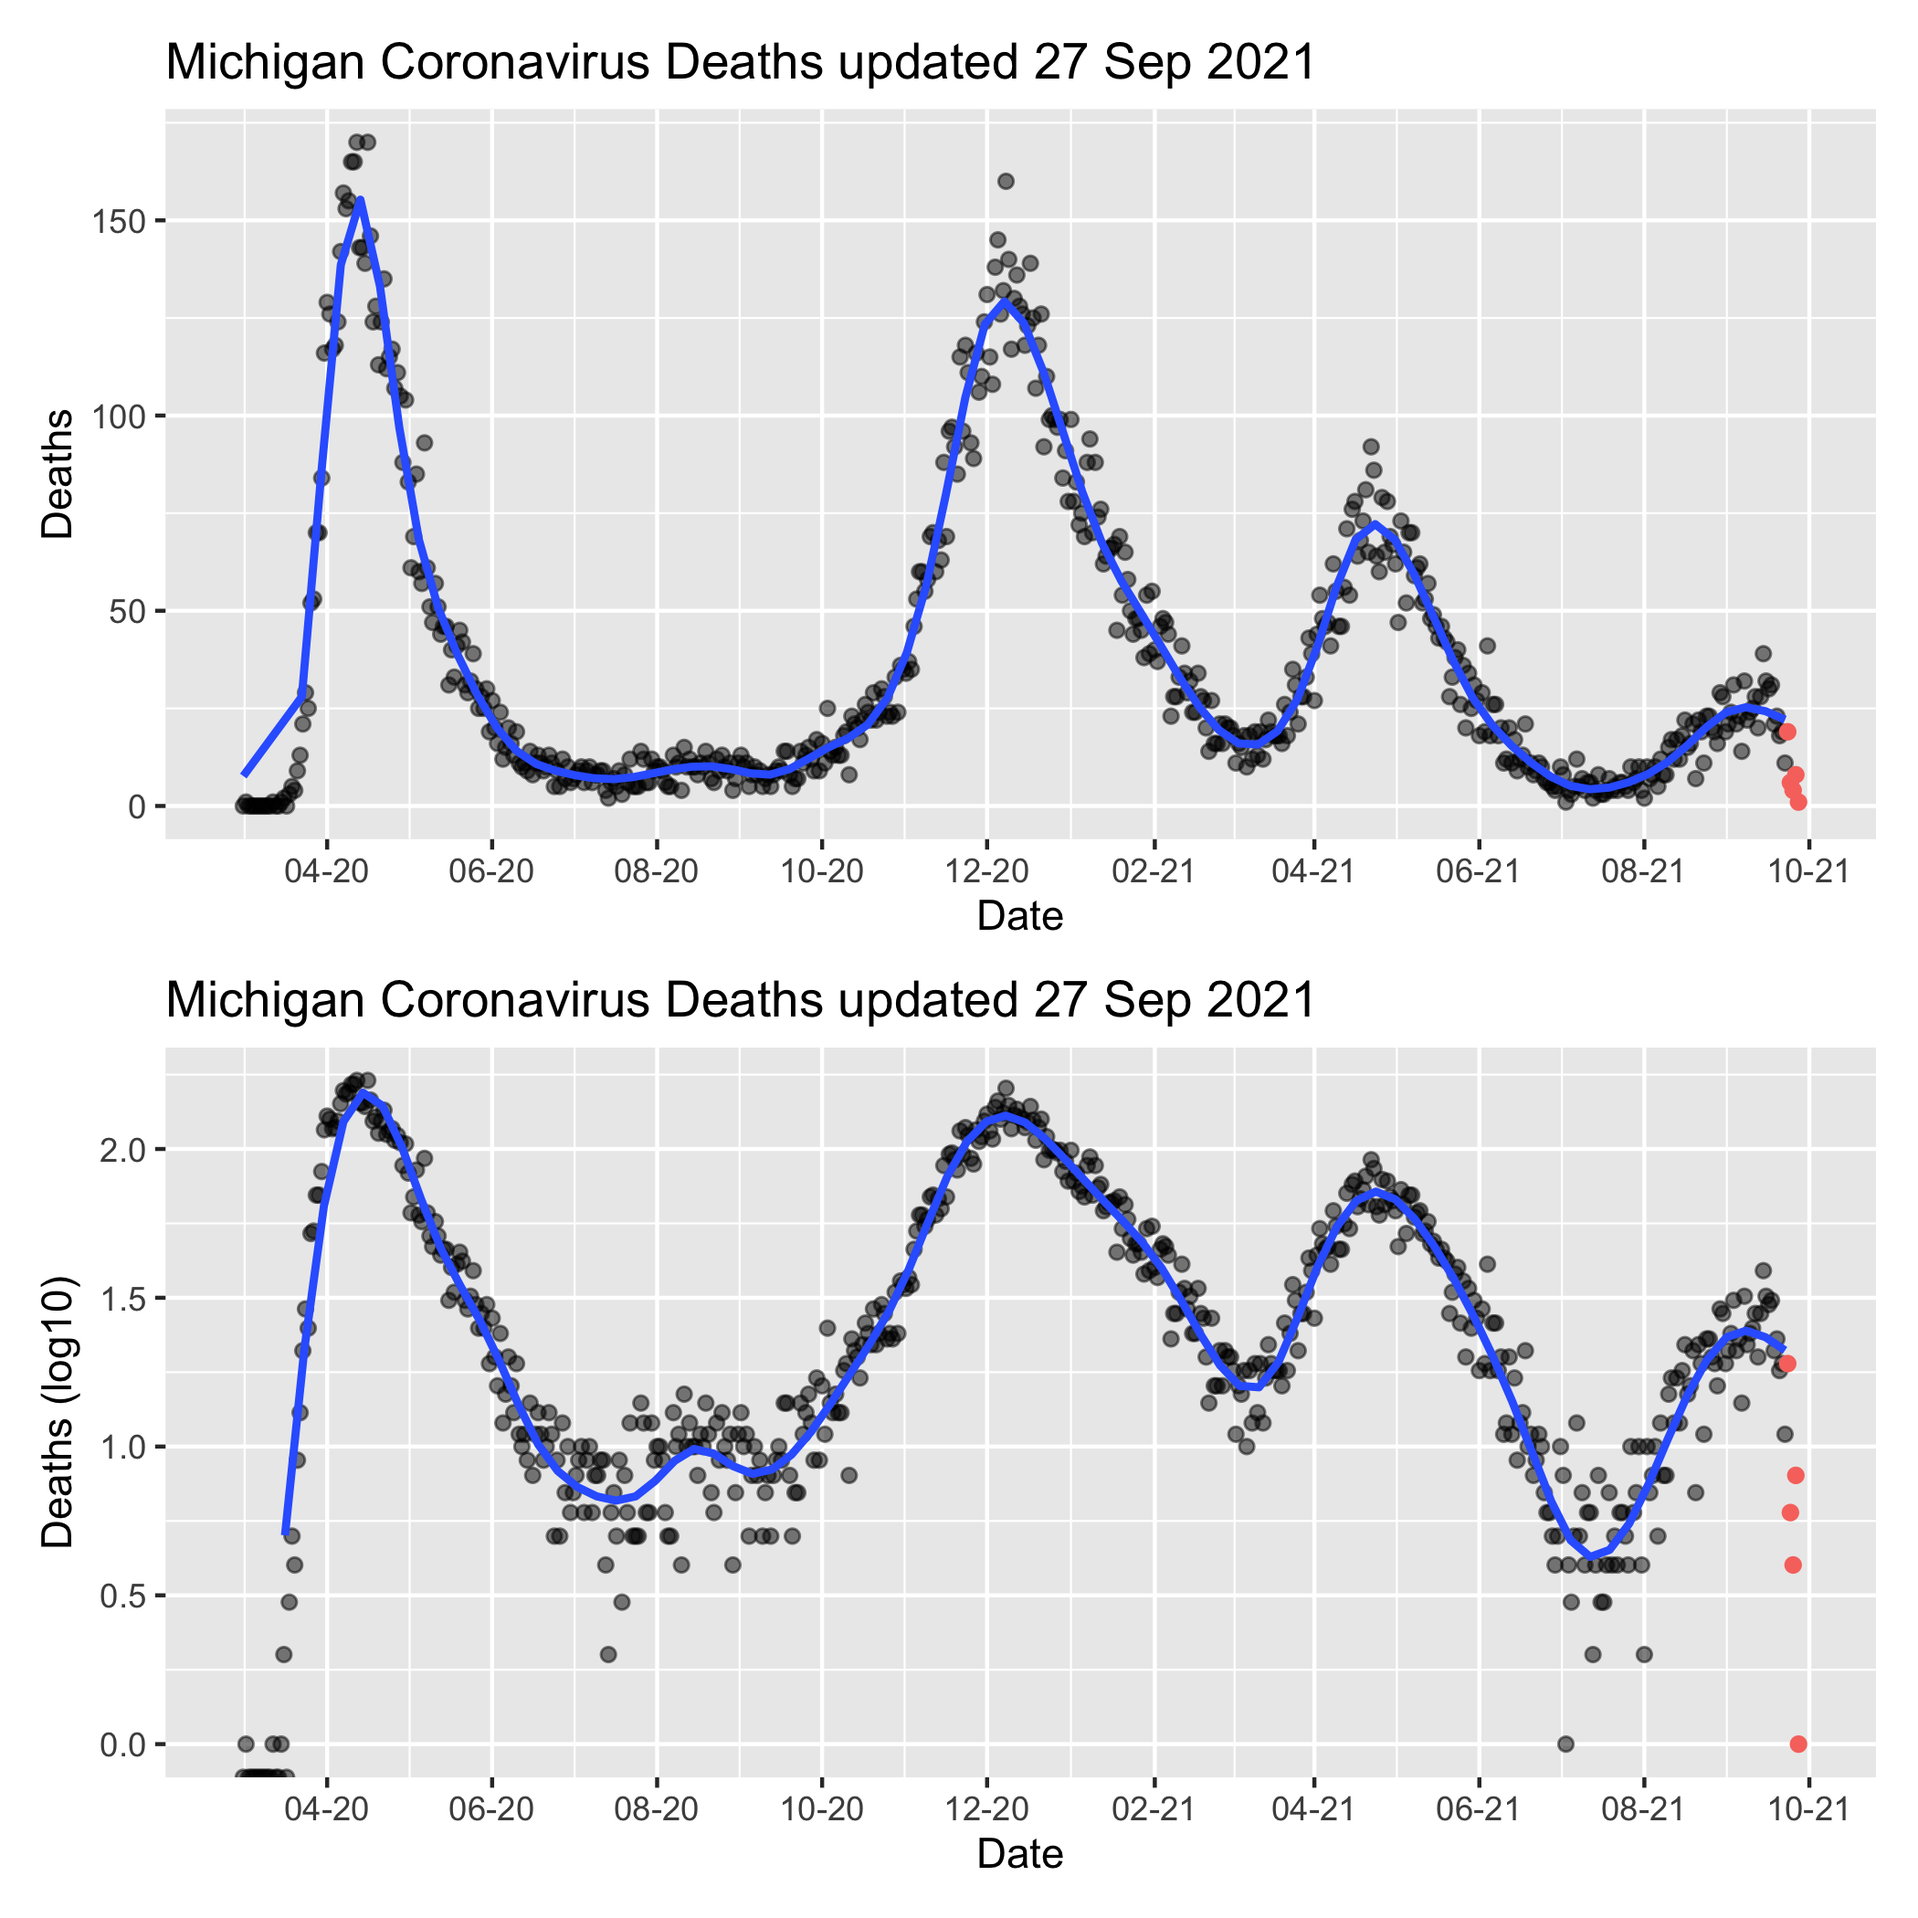
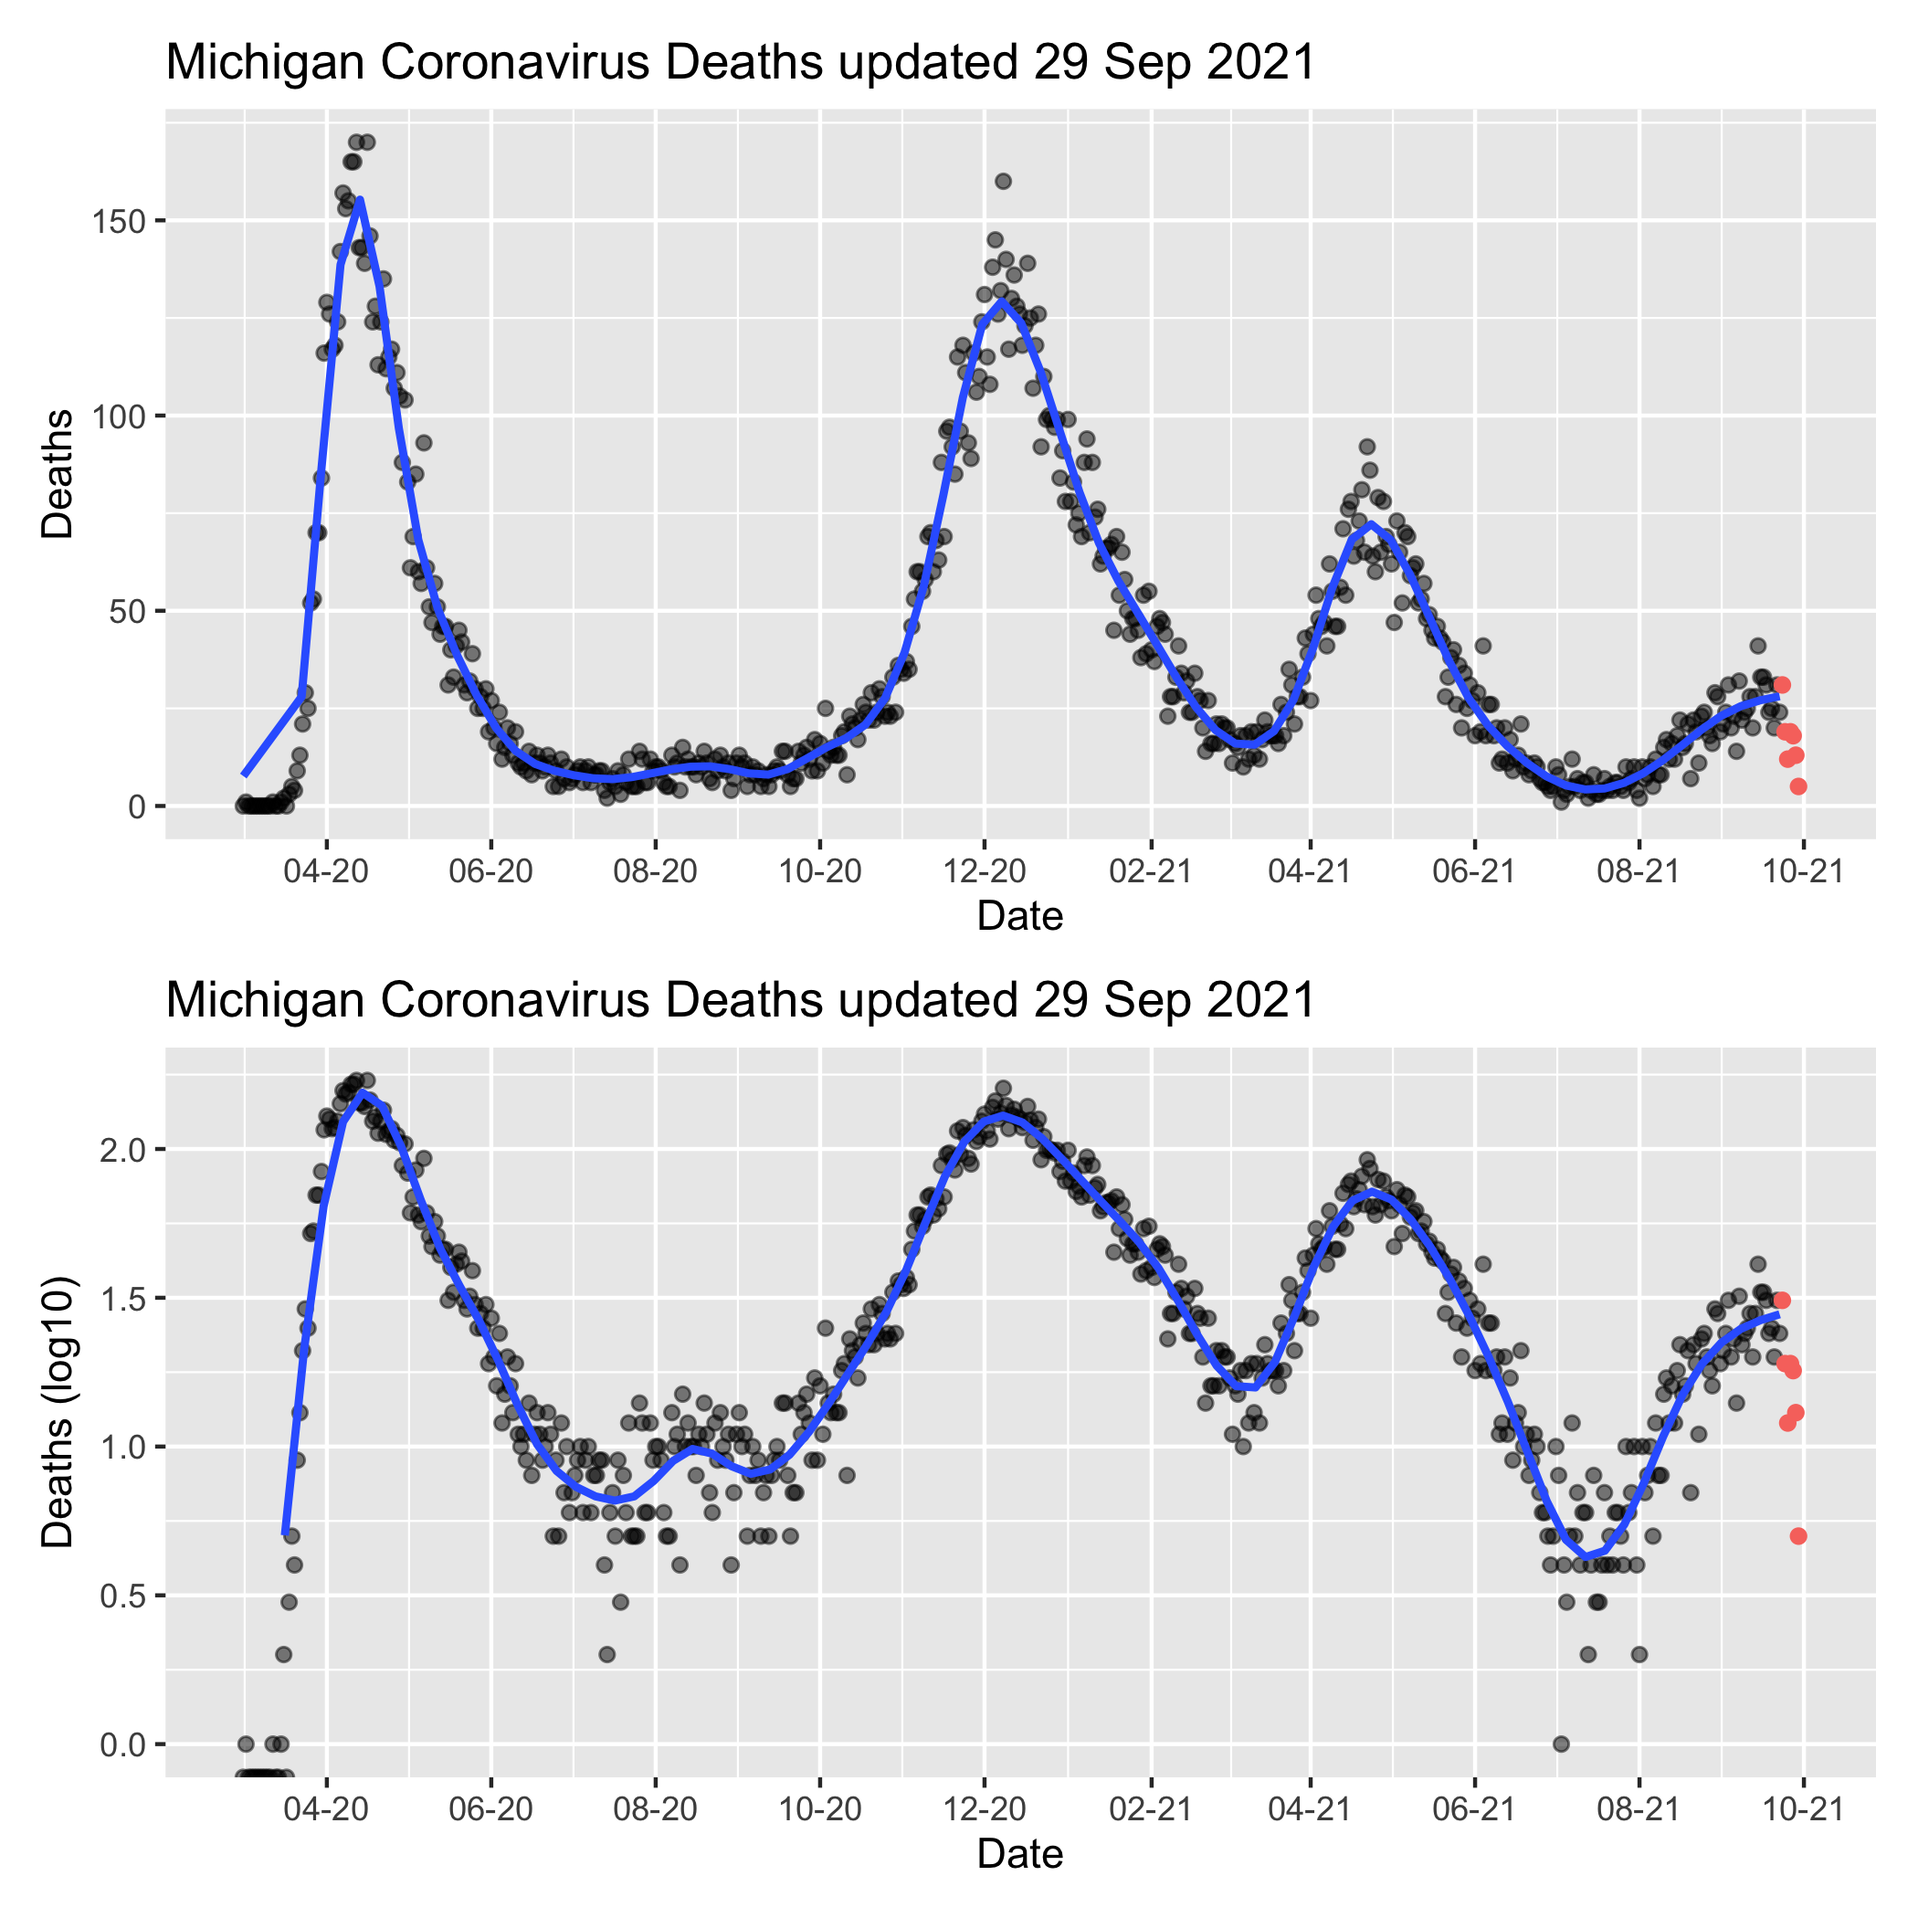
Sep-29 2021 23:57 update

diff --git a/MiCorona.md b/MiCorona.md
@@ -48,11 +48,11 @@ mi_data.head()
     ## 4  Alcona 2020-03-05   Confirmed    0.0     0.0               0.0   
     ## 
     ##    Deaths.Cumulative                       Updated  
-    ## 0                0.0 2021-09-27 14:59:18.364100096  
-    ## 1                0.0 2021-09-27 14:59:18.364100096  
-    ## 2                0.0 2021-09-27 14:59:18.364100096  
-    ## 3                0.0 2021-09-27 14:59:18.364100096  
-    ## 4                0.0 2021-09-27 14:59:18.364100096
+    ## 0                0.0 2021-09-29 13:11:42.450200064  
+    ## 1                0.0 2021-09-29 13:11:42.450200064  
+    ## 2                0.0 2021-09-29 13:11:42.450200064  
+    ## 3                0.0 2021-09-29 13:11:42.450200064  
+    ## 4                0.0 2021-09-29 13:11:42.450200064
 
 ``` python
 max_date = max(mi_data["Updated"])
@@ -135,7 +135,7 @@ viz_function(mi_cases_by_day_exclusive, mi_cases_by_day_last4, Date, Deaths, ver
 
 ![](MiCorona_files/figure-gfm/viz2-1.png)<!-- -->
 
-Note that the last 5 days of data have been colored red on the graph, as
+Note that the last 7 days of data have been colored red on the graph, as
 they frequently change as more information becomes available. Vertical
 orange line at 4 weeks in the past (as hospitalizations and deaths
 usually follow cases by three weeks, and the deaths graph regression
